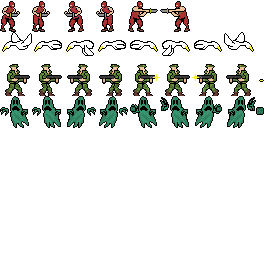
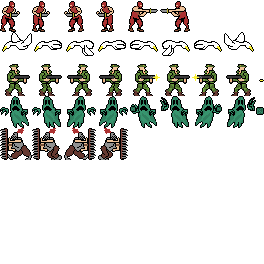
Quinto inimigo implementado

Changed region(s): [[0.0, 0.4848, 0.4848, 0.6061]]

diff --git a/src/Entities/Enemies/Runner.java b/src/Entities/Enemies/Runner.java
@@ -1,0 +1,144 @@
+package Entities.Enemies;
+
+import java.awt.Color;
+import java.awt.Graphics;
+import java.awt.image.BufferedImage;
+
+import Main.Main;
+import World.Camera;
+import World.Tile;
+import World.World;
+
+public class Runner extends Enemies{
+
+    private BufferedImage[] right, left;
+
+    private double fallSpeed;
+    private double gravity = 0.4;
+    private double speed = 6;
+    private boolean jumped;
+    private boolean inGround;
+
+
+    public Runner(int x, int y, int width, int height){
+        super(x, y, width, height);
+
+        this.maxFrames = 5;
+        this.maxIndex = 2;
+
+        this.locatePlayer(Main.player);
+
+        right = new BufferedImage[2];
+        left = new BufferedImage[2];
+
+        for (int i = 0; i < 2; i++){
+            right[i] = Main.enemies.getSprite(64 + 32*i, 32*4, 32, 32);
+            left[i] = Main.enemies.getSprite(32*i, 32*4, 32, 32);
+        }
+    }
+
+    public void render(Graphics g){
+        if (!isDead){
+            if (this.hori_dir > 0){
+                g.drawImage(right[index], this.getX() - Camera.x, this.getY() - Camera.y, null);
+            
+            }else {
+                g.drawImage(left[index], this.getX() - Camera.x, this.getY() - Camera.y, null);
+            }
+            
+        }
+    }
+
+    public void update(){
+        if(!isDead){
+            this.animFrames();
+            this.move();
+            if(!this.inScreen()){
+                this.isDead = true;
+            }
+            this.hit();
+        
+        }else {
+            this.respawn();
+        }
+
+    }
+
+    public void move(){
+        fallSpeed += gravity;
+        if (this.jumped && this.inGround) {
+            this.fallSpeed = -4;
+        }
+
+        for (int i=0; i < speed; i++){
+
+            Tile hit = World.isFree(this.getX() + hori_dir, this.getY(), 20, 32);
+
+            Tile right = World.isFree(this.getX() + this.width + hori_dir, this.getY()+32, 20, 1);
+            Tile left = World.isFree(this.getX() - this.width + hori_dir, this.getY()+32, 20, 1);
+
+            switch (hit) {
+                case null ->{
+                    this.x += hori_dir;
+                    break;
+                }
+                default ->{
+                    if (inGround) this.hori_dir *= -1;
+                    break;
+                }
+
+            }
+
+            if (this.inGround){
+                if (this.hori_dir < 0){
+                    if (left == null){
+                        jumped = true;;
+                    }
+            
+                }else if (this.hori_dir > 0) {
+                    if (right == null){
+                        jumped = true;
+                    }
+
+                }
+            }
+            
+        }
+
+         for (int i = 0; i < Math.abs(fallSpeed); i++){
+            double moveStep = Math.signum(fallSpeed);
+
+            Tile hit = World.isFree((int) x, (int)(y + moveStep), 20, 32);
+
+            switch (hit){
+                case null -> {
+                    this.y += moveStep;
+                    this.inGround = false;
+                    this.jumped = false;
+                    break;
+                }
+                default -> {
+                    this.inGround = true;
+                    this.fallSpeed = 0;
+                    break;
+                }
+            }
+        }
+
+    }
+
+    public void hit(){
+
+        if (this.hitPlayer(Main.player, this.getX() + 3, this.getY()) && !Main.player.hitted){
+            Main.player.gotHit = true;
+            Main.player.lives -= 1;
+            Main.player.hitted = true;
+            Main.player.knockBack = true;
+            Main.player.inKnockBack = true;
+        }
+
+        if (this.hurt(Main.player, this.getX() + 3, this.getY())){
+            this.isDead = true;
+        }
+    }
+}

diff --git a/src/Entities/Enemies/Launcher.java b/src/Entities/Enemies/Launcher.java
@@ -34,15 +34,15 @@ public class Launcher extends Enemies{
 
         right = new BufferedImage[2];
         left = new BufferedImage[2];
-        attack_right = new BufferedImage[2];
-        attack_left = new BufferedImage[2];
+        attack_right = new BufferedImage[1];
+        attack_left = new BufferedImage[1];
+
+        attack_right[0] = Main.enemies.getSprite((32*7), 32*3, 32, 32);
+        attack_left[0] = Main.enemies.getSprite((32*5), 32*3, 32, 32);
 
         for (int i = 0; i < 2; i++){
             right[i] = Main.enemies.getSprite((32*2) + 32*i, 32*3, 32, 32);
             left[i] = Main.enemies.getSprite(32*i, 32*3, 32, 32);
-
-            attack_right[i] = Main.enemies.getSprite((32*6) + 32*i, 32*3, 32, 32);
-            attack_left[i] = Main.enemies.getSprite((32*4) + 32*i, 32*3, 32, 32);
 
         }
 
@@ -58,7 +58,7 @@ public class Launcher extends Enemies{
                     g.drawImage(right[index], this.getX() - Camera.x, this.getY() - Camera.y, null);
                 
                 }else {
-                    g.drawImage(attack_right[index], this.getX() - Camera.x, this.getY() - Camera.y, null);
+                    g.drawImage(attack_right[0], this.getX() - Camera.x, this.getY() - Camera.y, null);
                 }
                 
         
@@ -67,7 +67,7 @@ public class Launcher extends Enemies{
                     g.drawImage(left[index], this.getX() - Camera.x, this.getY() - Camera.y, null);
                 
                 }else {
-                    g.drawImage(attack_left[index], this.getX() - Camera.x, this.getY() - Camera.y, null);
+                    g.drawImage(attack_left[0], this.getX() - Camera.x, this.getY() - Camera.y, null);
                 }
                 
             }
@@ -108,7 +108,7 @@ public class Launcher extends Enemies{
 
             if (attacking){
                 attackingTime++;
-                if(attackingTime >= 8){
+                if(attackingTime >= 20){
                     attacking = false;
                     attackingTime = 0;
                 }
@@ -149,7 +149,7 @@ public class Launcher extends Enemies{
 
             switch (hit) {
                 case null ->{
-                    this.x += vSpeed;
+                    if (!attacking) this.x += vSpeed;
                     break;
                 }
                 default ->{

diff --git a/src/World/World.java b/src/World/World.java
@@ -9,6 +9,7 @@ import javax.imageio.ImageIO;
 import Entities.Enemies.Bird;
 import Entities.Enemies.Launcher;
 import Entities.Enemies.Red_ninja;
+import Entities.Enemies.Runner;
 import Entities.Enemies.Soldier;
 import Main.Main;
 
@@ -89,6 +90,12 @@ public class World {
                             launcher.xStart = xx*32;
                             launcher.yStart = yy*32;
                             Main.entities.add(launcher);
+                            break;
+                        case 0xFF00ffe6:
+                            Runner runner = new Runner(xx*32, yy*32, 32, 32);
+                            runner.xStart = xx*32;
+                            runner.yStart = yy*32;
+                            Main.entities.add(runner);
                             break;
                         case 0xFF1eff00:
                             Main.player.setX(xx*32);

diff --git a/src/Entities/Enemies/Red_ninja.java b/src/Entities/Enemies/Red_ninja.java
@@ -116,7 +116,7 @@ public class Red_ninja extends Enemies{
                     break;
                 }
                 default ->{
-                    this.hori_dir *= -1;
+                    if (inGround) this.hori_dir *= -1;
                     break;
                 }
 
